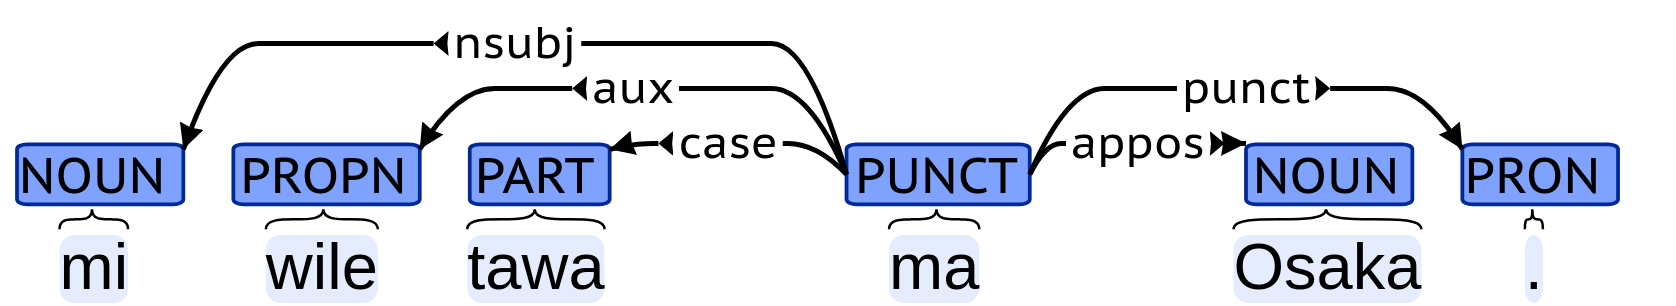
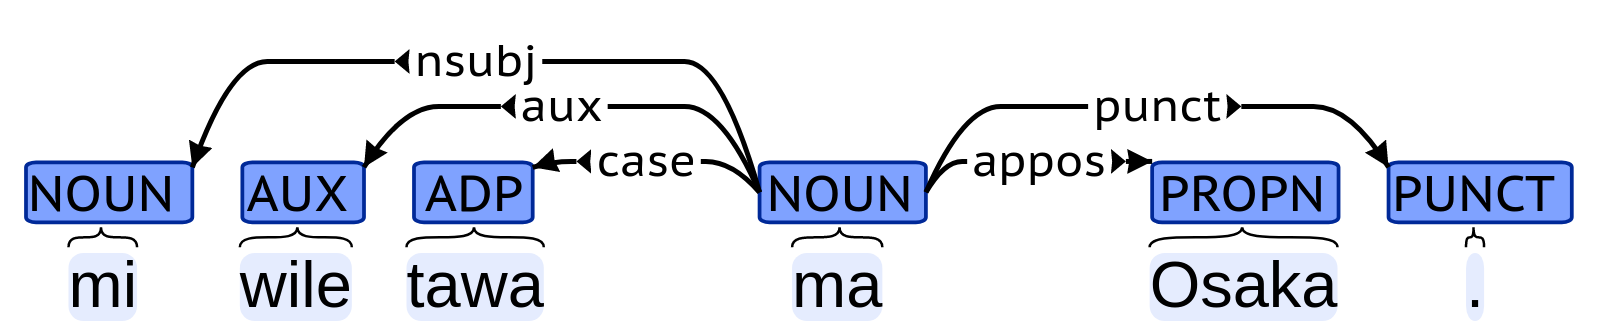
add

Changed region(s): [[0.0, 0.0882, 0.9877, 1.0]]

diff --git a/image/vis.html b/image/vis.html
@@ -499,11 +499,11 @@
 <pre><code class="language-conllu">
 0	ROOT					0	root
 1	mi		NOUN			4	nsubj
-2	wile		PROPN			4	aux
-3	tawa		PART			4	case
-4	ma		PUNCT			0	root
-5	Osaka		NOUN			4	appos
-6	.		PRON			4	punct
+2	wile		AUX			4	aux
+3	tawa		ADP			4	case
+4	ma		NOUN			0	root
+5	Osaka		PROPN			4	appos
+6	.		PUNCT			4	punct
 </code></pre>
 
 <pre><code class="language-conllu">
@@ -515,7 +515,7 @@
 5	ala		PART			6	aux
 6	ken		AUX			4	conj:rep
 7	moku		VERB			0	root
-8	e		PART			9	root
+8	e		PART			9	aux
 9	kala		NOUN			7	obj
 10	?		PUNCT			7	punct
 </code></pre>
